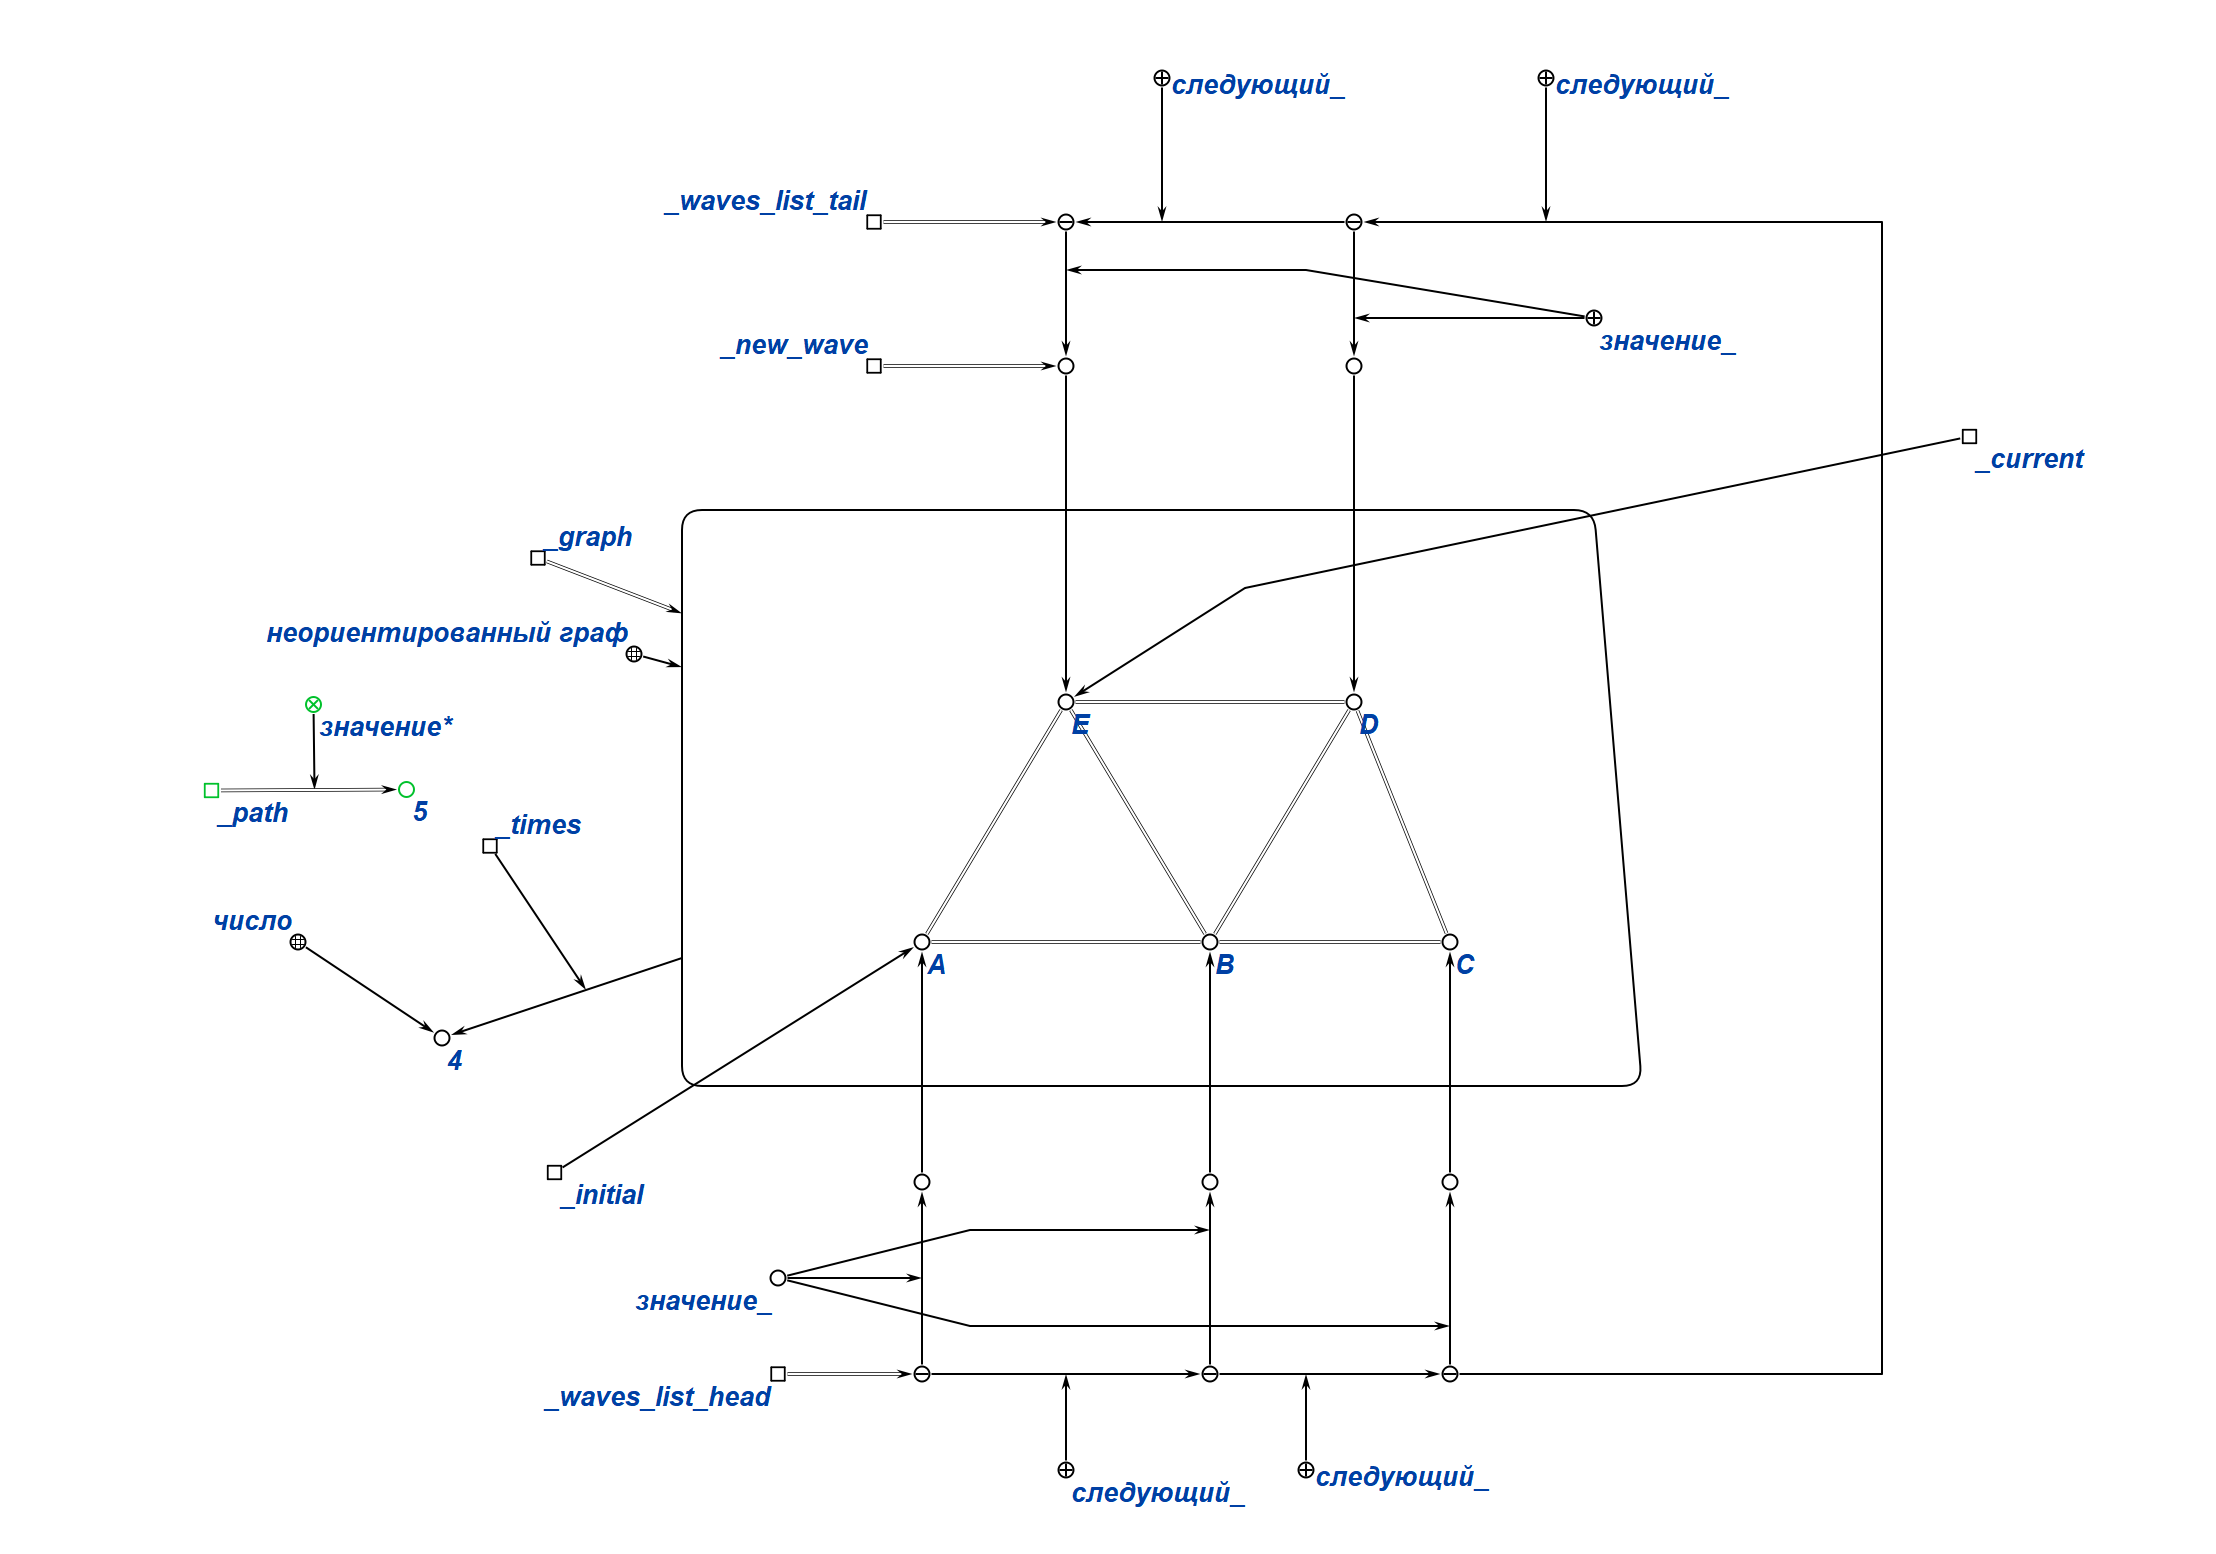
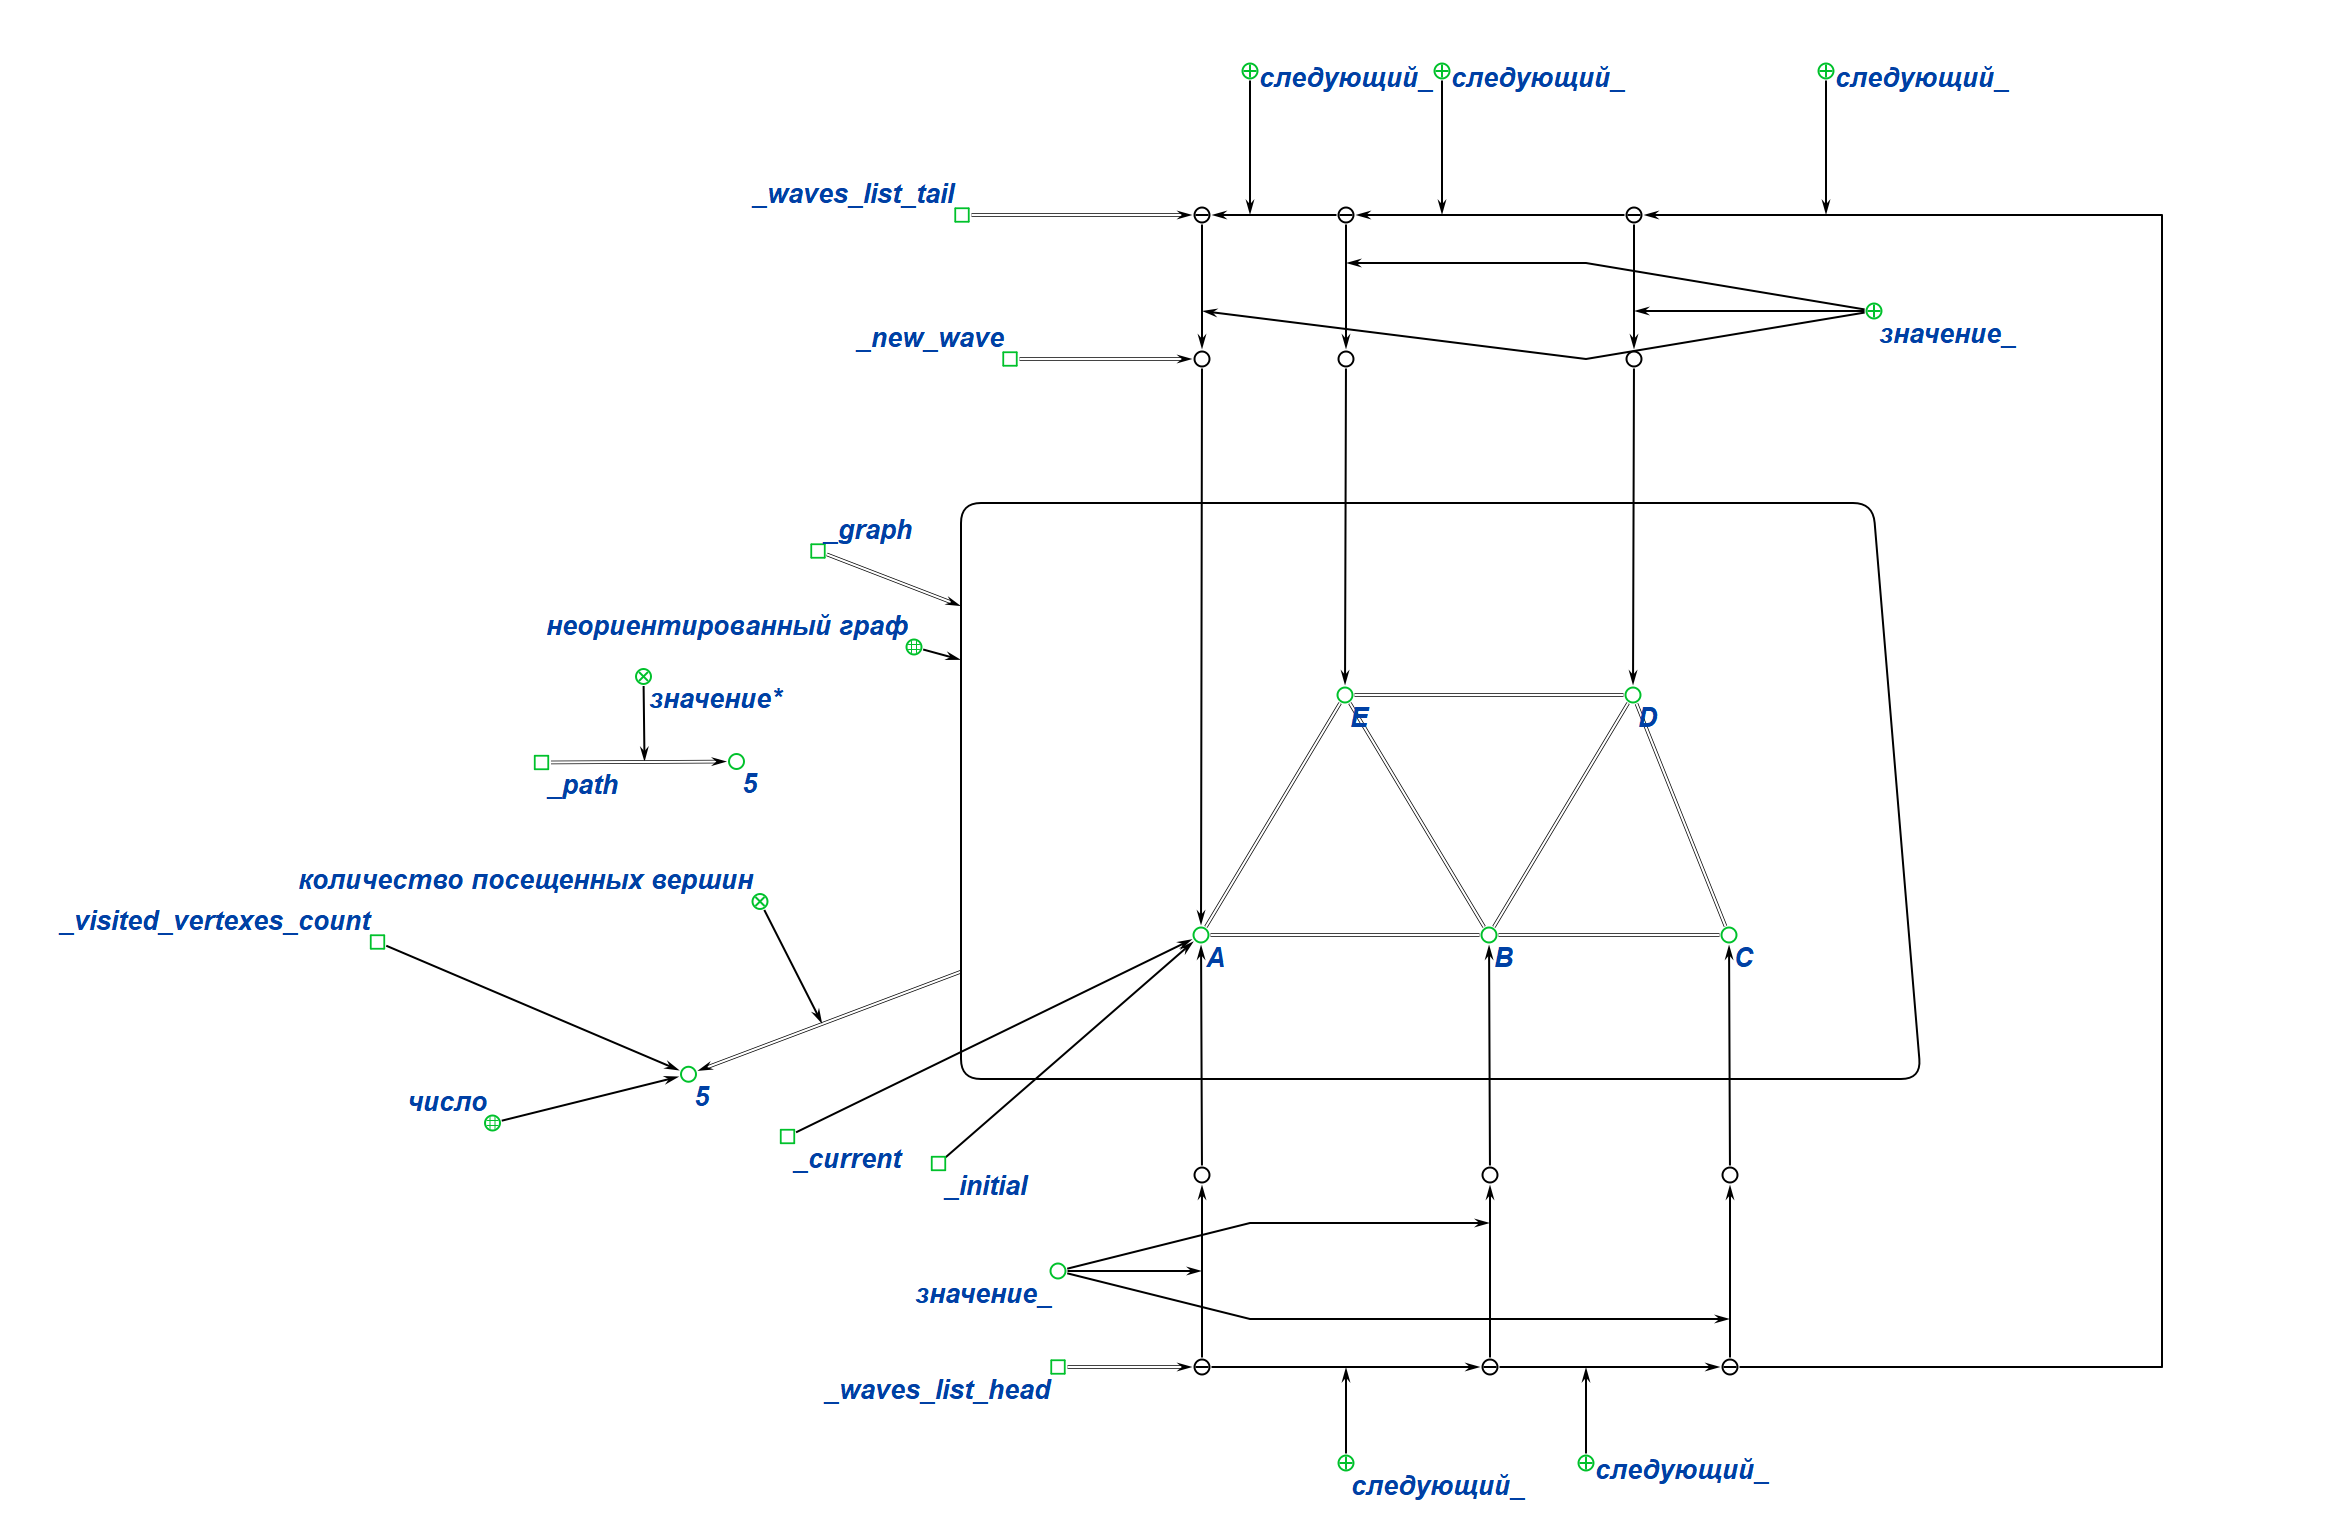
edited screenshots

diff --git a/sem2/PP/README.md b/sem2/PP/README.md
@@ -21,37 +21,33 @@
 ![image.png](media/image.png)
 
 ### Демонстрация работы программы в семантической памяти
-1. Задаём граф, переменные `path`, `times`, `current` и `initial`
-![image-1.png](media/image-1.png)
+1. Задаём граф, переменные `path`, `_visited_vertexes_count`, `current` и `initial`
+![alt text](media/image-0.png)
 
 
 2. Создаём первую волну, указывающую на вершину графа.
-![image-2.png](media/image-2.png)
-
+![alt text](media/image-1.png)
 
 3. Создаём следующую волну, перемещаем указатель current на следующую вершину, обновляем переменную `times`.
-![image-3.png](media/image-3.png)
-
+![alt text](media/image-2.png)
 
 4. Создаём следующую волну, перемещаем указатель current на следующую вершину, обновляем переменную `times`.
-![image-4.png](media/image-4.png)
-
+![alt text](media/image-3.png)
 
 5. Создаём следующую волну, перемещаем указатель current на следующую вершину, обновляем переменную `times`.
-![image-5.png](media/image-5.png)
-
+![alt text](media/image-4.png)
 
 6. Создаём следующую волну, перемещаем указатель current на следующую вершину, обновляем переменную `times`.
-![image-6.png](media/image-6.png)
-
+![alt text](media/image-5.png)
 
 7. Создаём следующую волну, перемещаем указатель current на следующую вершину, обновляем переменную `times`.
-![image-7.png](media/image-7.png)
+![alt text](media/image-6.png)
 
+8. Генерация пути:
+![alt text](media/image-7.png)
 
-8. `current` = `initial`, значит удаляем список волн. `_path` = `times`, алгоритм выполнен.
-![image-8.png](media/image-8.png)
-
+9. `current` = `initial`, а также `_path` = `_visited_vertexes_count`, значит мы прошли по всем вершинам и вернулись в изначальную, алгоритм выполнен.
+![alt text](media/image-8.png)
 
 
 # Вывод
